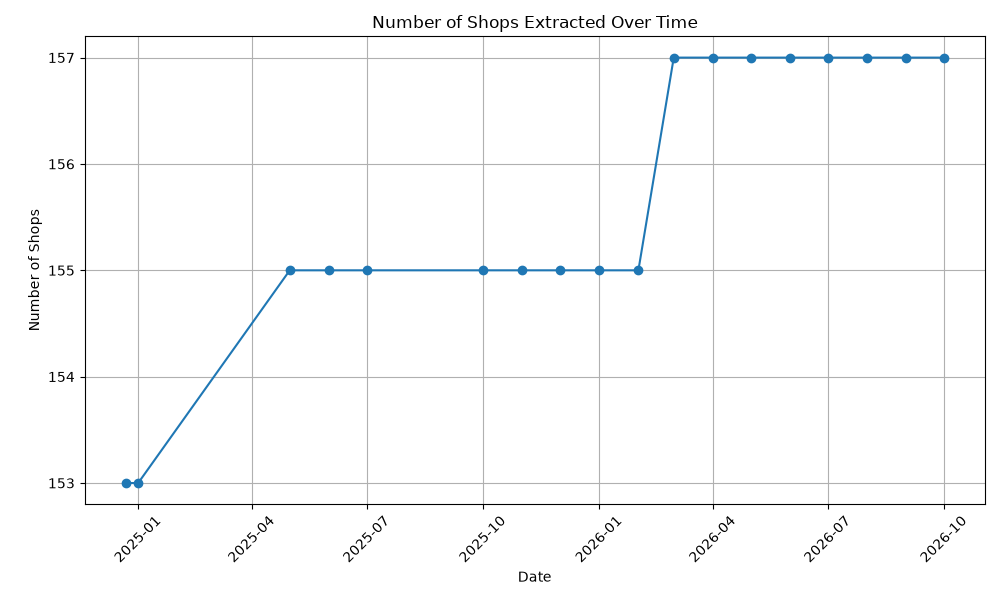
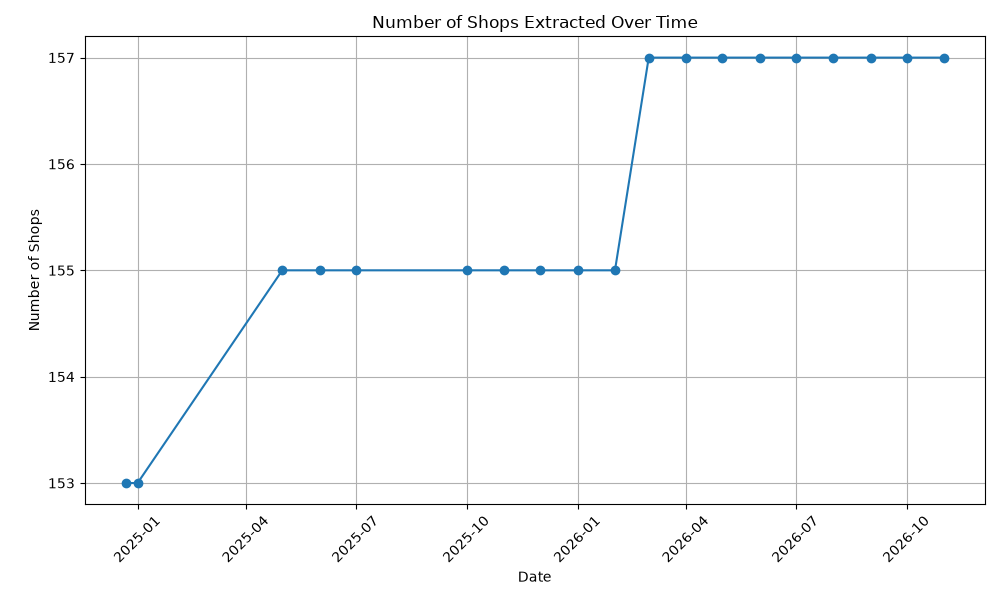
Stokomani 2026-11-01

diff --git a/Stokomani/README.md b/Stokomani/README.md
@@ -1,10 +1,10 @@
 # Stokomani 🏷
 
-**Data last updated on: 2026-10-01**
+**Data last updated on: 2026-11-01**
 
 Data scraped from: [Stokomani](https://www.stokomani.fr)
 
-![History Diagram](shop_count_history.png?img_date=2026-10-01)
+![History Diagram](shop_count_history.png?img_date=2026-11-01)
 
 ## 📅 Use the Latest Data Scraped Each Month
 
